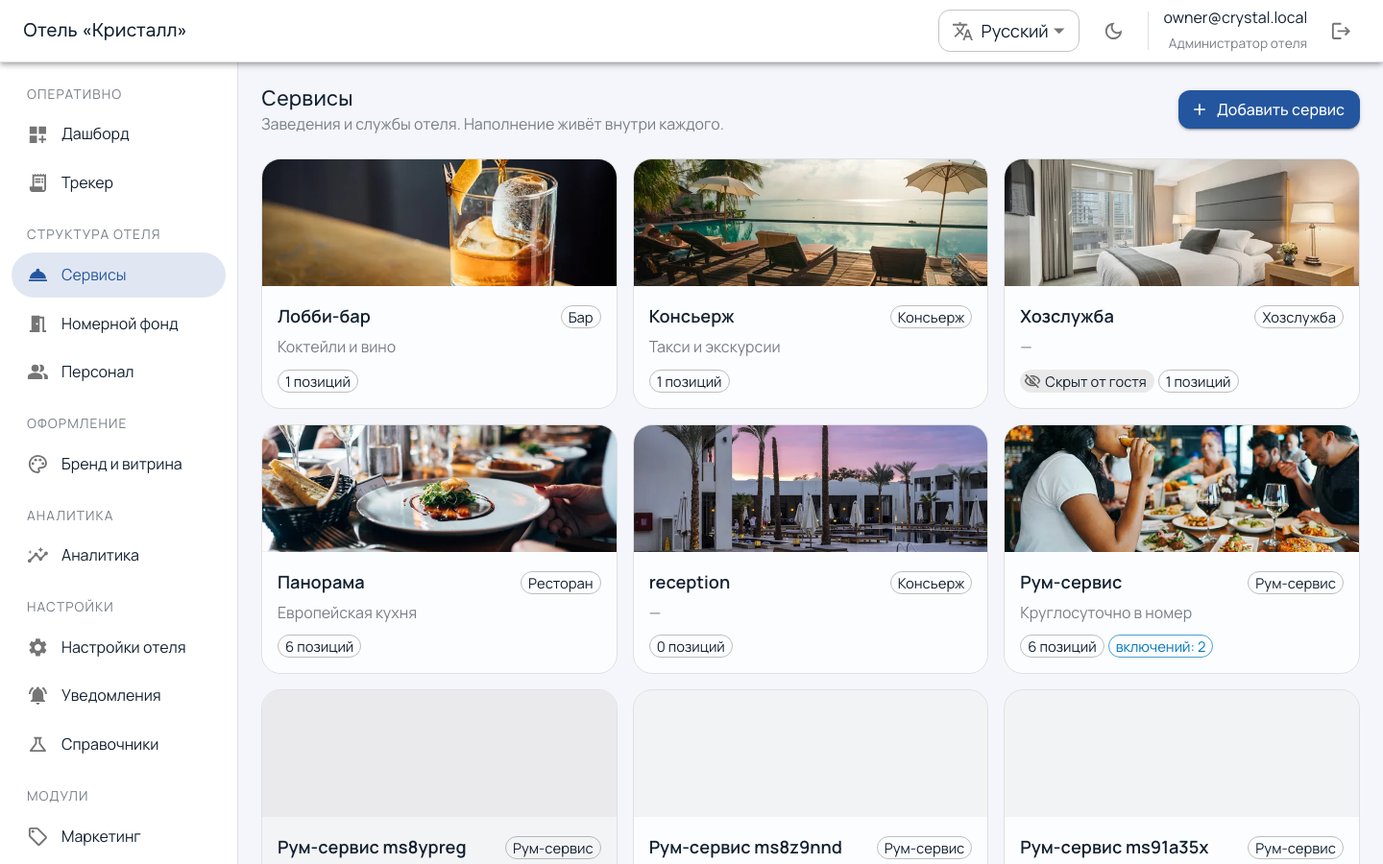
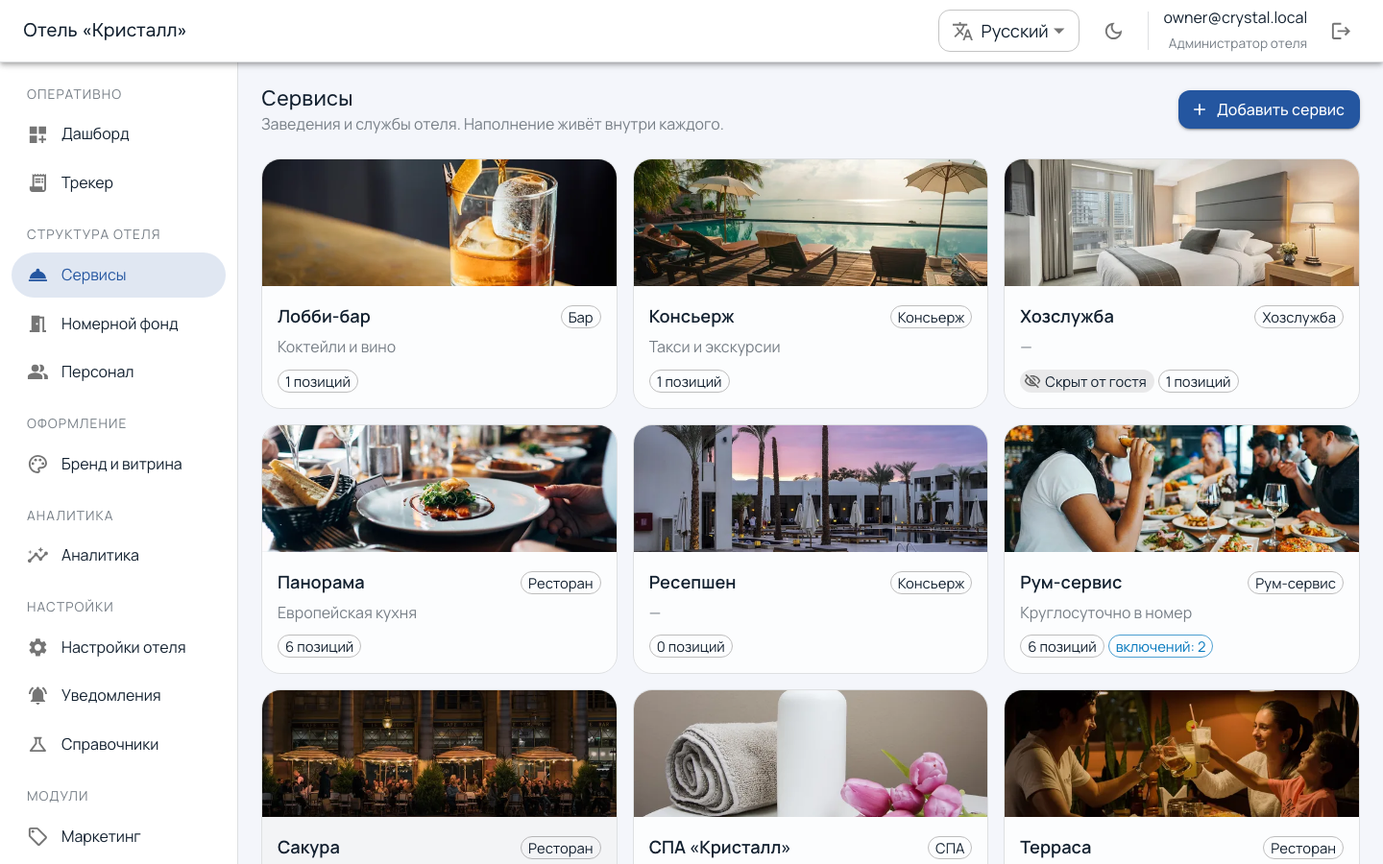
Хвост §2: брошенные заказы, имя ресепшена, архив выключенных сервисов
ЗАВИСШИЕ ЗАКАЗЫ («2515 мин»). Считалось верно — столько заказ и висел: каждый
прогон E2E оставляет заказы в рабочих статусах, и на стенде их накопилось 110
старше суток. На доске это читается как отказ системы, а счётчики колонок
растут от прогона к прогону.

Уборка стенда теперь их закрывает, но НЕ удаляет: заказ — это выручка и чек.
Перевод в терминальный «отменён» СВОЕГО потока (у потоков статусы разные, общий
код поставил бы чужой). Порог — сутки, живой заказ под правило не попадает.

Отдельно защищена БУДУЩАЯ бронь: спа-слот на следующую неделю заводят заранее,
его `created_at` стар по определению, и правило «старше суток — закрыть»
уничтожило бы настоящую запись гостя. Признак не возраст, а прошло ли
назначенное время. Это закреплено тестом.

РЕСЕПШЕН ЛАТИНИЦЕЙ. У точки исполнения перевод был, у её сервиса — нет, и CMS
показывала сервис по КОДУ. Имя дано на всех четырёх языках; заодно починка уже
заведённых отелей — `get_or_create` их бы не тронул.

ВЫКЛЮЧЕННЫЕ В CMS. Выключенный сервис оставался полноправной карточкой в общей
сетке: двадцать «Рум-сервис ms…» поверх шести настоящих, и оператор искал свой
ресторан глазами среди мусора. Рабочее и архивное разведены, архив свёрнут.
Удалять их нельзя — на них висят заказы.

Changed region(s): [[0.1875, 0.7778, 1.0, 0.9956], [0.4688, 0.6533, 0.5312, 0.6844]]

diff --git a/frontend/src/cms/services/ServicesPage.tsx b/frontend/src/cms/services/ServicesPage.tsx
@@ -16,7 +16,9 @@ import MenuItem from '@mui/material/MenuItem';
 import Stack from '@mui/material/Stack';
 import TextField from '@mui/material/TextField';
 import Typography from '@mui/material/Typography';
+import Collapse from '@mui/material/Collapse';
 import AddIcon from '@mui/icons-material/Add';
+import ExpandMoreIcon from '@mui/icons-material/ExpandMore';
 import VisibilityOffOutlinedIcon from '@mui/icons-material/VisibilityOffOutlined';
 import { useTranslation } from 'react-i18next';
 
@@ -35,8 +37,13 @@ export function ServicesPage() {
   const navigate = useNavigate();
   const queryClient = useQueryClient();
   const [creating, setCreating] = useState(false);
+  const [archiveOpen, setArchiveOpen] = useState(false);
 
   const services = useQuery({ queryKey: ['cms', 'services'], queryFn: fetchServices });
+
+  const all = services.data ?? [];
+  const active = all.filter((service) => service.is_active);
+  const archived = all.filter((service) => !service.is_active);
 
   const label = (value: Record<string, string> | undefined, fallback: string) =>
     value?.[i18n.resolvedLanguage ?? 'ru'] ?? value?.ru ?? value?.en ?? fallback;
@@ -71,22 +78,49 @@ export function ServicesPage() {
 
       {services.error ? <Alert severity="error">{String(services.error)}</Alert> : null}
 
-      <Box
-        sx={{
-          display: 'grid',
-          gap: 2,
-          gridTemplateColumns: { xs: '1fr', sm: '1fr 1fr', lg: '1fr 1fr 1fr' },
-        }}
-      >
-        {(services.data ?? []).map((service) => (
-          <ServiceCard
-            key={service.id}
-            service={service}
-            label={label}
-            onOpen={() => navigate(`/cms/services/${service.id}`)}
-          />
-        ))}
-      </Box>
+      {/*
+        Рабочее и архивное — врозь.
+
+        Выключенный сервис остаётся полноправной карточкой в общей сетке, и на
+        стенде это давало двадцать «Рум-сервис ms…» поверх шести настоящих:
+        оператор искал свой ресторан глазами среди мусора. Выключенные никуда
+        не деваются (их нельзя удалить — на них висят заказы), но лежат
+        свёрнутыми и не мешают работе.
+      */}
+      <ServiceGrid
+        services={active}
+        label={label}
+        onOpen={(id) => navigate(`/cms/services/${id}`)}
+      />
+
+      {archived.length ? (
+        <Box sx={{ mt: 3 }}>
+          <Button
+            onClick={() => setArchiveOpen((open) => !open)}
+            data-testid="services-archive-toggle"
+            startIcon={
+              <ExpandMoreIcon
+                sx={{
+                  transform: archiveOpen ? 'rotate(180deg)' : 'none',
+                  transition: 'transform .2s',
+                }}
+              />
+            }
+            sx={{ color: 'text.secondary' }}
+          >
+            {t('services.archive', { count: archived.length })}
+          </Button>
+          <Collapse in={archiveOpen} unmountOnExit>
+            <Box sx={{ mt: 2 }} data-testid="services-archive">
+              <ServiceGrid
+                services={archived}
+                label={label}
+                onOpen={(id) => navigate(`/cms/services/${id}`)}
+              />
+            </Box>
+          </Collapse>
+        </Box>
+      ) : null}
 
       <CreateServiceDialog
         open={creating}
@@ -266,5 +300,36 @@ function CreateServiceDialog({
         </Button>
       </DialogActions>
     </Dialog>
+  );
+}
+
+/** Сетка карточек — одна и та же для рабочих и для архивных. */
+function ServiceGrid({
+  services,
+  label,
+  onOpen,
+}: {
+  services: CmsService[];
+  /** Тот же резолвер перевода, что у страницы: значение по языку + запасное. */
+  label: (value: Record<string, string> | undefined, fallback: string) => string;
+  onOpen: (id: string) => void;
+}) {
+  return (
+    <Box
+      sx={{
+        display: 'grid',
+        gap: 2,
+        gridTemplateColumns: { xs: '1fr', sm: '1fr 1fr', lg: '1fr 1fr 1fr' },
+      }}
+    >
+      {services.map((service) => (
+        <ServiceCard
+          key={service.id}
+          service={service}
+          label={label}
+          onOpen={() => onOpen(service.id)}
+        />
+      ))}
+    </Box>
   );
 }

diff --git a/backend/apps/hotels/management/commands/clean_test_residue.py b/backend/apps/hotels/management/commands/clean_test_residue.py
@@ -15,6 +15,17 @@
 ЧТО НЕ УДАЛЯЕТСЯ НИКОГДА: позиция, на которую ссылается строка заказа. Такая
 позиция — часть истории: удалив её, мы порвём чек, который отель уже отдал
 гостю. Её выключают, и она перестаёт быть видимой гостю, оставаясь в истории.
+
+ЗАВИСШИЕ ЗАКАЗЫ. Каждый прогон E2E оставляет заказы в рабочих статусах: их
+никто не доводит до конца, и они копятся. На доске это выглядит как отказ
+системы — «2515 мин» красным на каждой карточке, — а счётчики колонок растут от
+прогона к прогону. Такие заказы НЕ УДАЛЯЮТСЯ: заказ это история и выручка.
+Они переводятся в терминальный «отменён» своего потока — с доски уходят,
+в истории и аналитике остаются целиком.
+
+Порог намеренно крупный (STALE_HOURS): заказ, открытый дольше суток, — это уже
+не «в работе», а брошенный. Живой заказ, которым занимаются прямо сейчас, под
+правило не попадает, и это главное, что здесь нельзя сломать.
 """
 
 from __future__ import annotations
@@ -31,6 +42,10 @@ from apps.hotels.models import Hotel
 TEST_SUFFIX = re.compile(r"-ms[0-9a-z]{6,}$")
 CHAT_BODY = re.compile(r"^(вопрос|ответ|ещё)-ms[0-9a-z]{6,}$")
 
+# Через сколько часов открытый заказ считается брошенным. Сутки с запасом:
+# смена длится меньше, и ни один живой заказ столько в работе не висит.
+STALE_HOURS = 24
+
 
 class Command(BaseCommand):
     help = "Показать (и по флагу убрать) остатки автотестов в отеле"
@@ -42,11 +57,21 @@ class Command(BaseCommand):
             action="store_true",
             help="Действительно убрать. Без флага — только показать, что нашлось",
         )
+        parser.add_argument(
+            "--stale-hours",
+            type=int,
+            default=STALE_HOURS,
+            help=f"С какого возраста открытый заказ считать брошенным (по умолчанию {STALE_HOURS})",
+        )
 
     def handle(self, *args, **options):
+        from datetime import timedelta
+
+        from django.utils import timezone
+
         from apps.catalog.models import Category, Item
         from apps.chat.models import ChatMessage
-        from apps.orders.models import OrderItem
+        from apps.orders.models import Order, OrderItem, StatusDefinition
 
         hotel = Hotel.objects.filter(subdomain=options["subdomain"]).first()
         if hotel is None:
@@ -59,6 +84,22 @@ class Command(BaseCommand):
             categories = [c for c in Category.objects.all() if TEST_SUFFIX.search(c.code)]
             messages = [m for m in ChatMessage.objects.all() if CHAT_BODY.match((m.body or "").strip())]
 
+            # Заказы, брошенные прогонами: открыты дольше порога. Опознаём по
+            # возрасту и незавершённости, а не по имени — у заказа нет кода, за
+            # который можно зацепиться, и придумывать его ради уборки нельзя.
+            now = timezone.now()
+            cutoff = now - timedelta(hours=options["stale_hours"])
+            stale = [
+                order
+                for order in Order.objects.select_related("status").filter(created_at__lt=cutoff)
+                if not order.status.is_terminal
+                # Бронь на БУДУЩЕЕ брошенной не является, даже если оформлена
+                # давно: спа-слот на следующую неделю заводят заранее, и его
+                # `created_at` стар по определению. Возраст заказа тут не
+                # признак — признак в том, прошло ли назначенное время.
+                and not (order.requested_time and order.requested_time > now)
+            ]
+
             # Позиции делим по одному признаку: есть ли на них заказ.
             keep, drop = [], []
             for item in items:
@@ -66,7 +107,8 @@ class Command(BaseCommand):
 
             self.stdout.write(
                 f"Найдено: позиций {len(items)} (удалить {len(drop)}, выключить {len(keep)} — "
-                f"на них есть заказы), разделов {len(categories)}, сообщений чата {len(messages)}"
+                f"на них есть заказы), разделов {len(categories)}, сообщений чата {len(messages)}, "
+                f"брошенных заказов {len(stale)} (открыты дольше {options['stale_hours']} ч)"
             )
             for item in keep:
                 self.stdout.write(f"  выключить: {item.code}")
@@ -91,10 +133,31 @@ class Command(BaseCommand):
 
             deleted_msgs = ChatMessage.objects.filter(pk__in=[m.pk for m in messages]).delete()
 
+            # Заказ НЕ удаляем: это история и выручка. Переводим в терминальный
+            # «отменён» СВОЕГО потока — статусы у потоков разные, и один общий
+            # код здесь поставил бы заказу чужой статус.
+            cancelled_by_flow: dict[str, StatusDefinition] = {}
+            closed = 0
+            for order in stale:
+                flow = order.status.flow
+                terminal = cancelled_by_flow.get(flow)
+                if terminal is None:
+                    terminal = StatusDefinition.objects.filter(
+                        flow=flow, code="cancelled"
+                    ).first()
+                    if terminal is None:
+                        self.stderr.write(f"У потока «{flow}» нет статуса отмены — пропускаю")
+                        continue
+                    cancelled_by_flow[flow] = terminal
+                order.status = terminal
+                order.save(update_fields=["status", "updated_at"])
+                closed += 1
+
         self.stdout.write(
             self.style.SUCCESS(
                 f"Убрано: позиций удалено {deleted_items}, выключено {hidden}; "
                 f"разделов удалено {deleted_cats}, выключено {hidden_cats}; "
-                f"сообщений удалено {deleted_msgs}"
+                f"сообщений удалено {deleted_msgs}; "
+                f"брошенных заказов закрыто {closed}"
             )
         )

diff --git a/backend/tests/test_stand_cleanup.py b/backend/tests/test_stand_cleanup.py
@@ -1,0 +1,104 @@
+"""
+Уборка стенда: брошенные заказы.
+
+Каждый прогон E2E оставляет заказы в рабочих статусах — их никто не доводит до
+конца. На доске это выглядит как отказ системы («2515 мин» красным на каждой
+карточке), а счётчики колонок растут от прогона к прогону.
+
+Здесь закреплено ровно то, что можно и чего нельзя делать с такими заказами.
+Граница проходит не по «тестовости» (у заказа нет кода, за который зацепиться),
+а по двум признакам: заказ незавершён И его время прошло.
+"""
+
+from __future__ import annotations
+
+from datetime import timedelta
+
+import pytest
+from django.core.management import call_command
+from django.utils import timezone
+
+from apps.core.context import tenant_context
+from apps.orders.models import Order, StatusDefinition
+
+pytestmark = pytest.mark.django_db
+
+
+def _make_order(hotel, *, age_hours: float, status_code: str, requested_time=None) -> Order:
+    """Заказ заданного возраста. `created_at` — auto_now_add, поэтому проставляем после."""
+    from apps.hotels.models import ExecutionPoint, Room
+
+    with tenant_context(hotel):
+        status = StatusDefinition.objects.filter(flow="board", code=status_code).first()
+        assert status is not None, f"нет статуса {status_code}"
+        order = Order.objects.create(
+            number=Order.objects.count() + 9000,
+            room=Room.objects.first(),
+            execution_point=ExecutionPoint.objects.first(),
+            status=status,
+            total=1000,
+            requested_time=requested_time,
+        )
+        Order.objects.filter(pk=order.pk).update(
+            created_at=timezone.now() - timedelta(hours=age_hours)
+        )
+        return Order.objects.get(pk=order.pk)
+
+
+def test_stale_open_order_is_closed_not_deleted(crystal):
+    """Брошенный заказ уходит с доски, но остаётся в истории целиком."""
+    order = _make_order(crystal, age_hours=48, status_code="new")
+    with tenant_context(crystal):
+        before = Order.objects.count()
+
+    call_command("clean_test_residue", "--subdomain", "crystal", "--apply", verbosity=0)
+
+    with tenant_context(crystal):
+        refreshed = Order.objects.get(pk=order.pk)
+        assert refreshed.status.is_terminal, "заказ обязан уйти с активной доски"
+        assert refreshed.status.code == "cancelled"
+        # Главное: ни одна строка не пропала. Заказ — это выручка и чек.
+        assert Order.objects.count() == before
+
+
+def test_fresh_open_order_is_left_alone(crystal):
+    """Живой заказ трогать нельзя — им занимаются прямо сейчас."""
+    order = _make_order(crystal, age_hours=1, status_code="new")
+
+    call_command("clean_test_residue", "--subdomain", "crystal", "--apply", verbosity=0)
+
+    with tenant_context(crystal):
+        assert not Order.objects.get(pk=order.pk).status.is_terminal
+
+
+def test_future_booking_survives_however_old(crystal):
+    """
+    Бронь на БУДУЩЕЕ брошенной не является, даже если оформлена давно.
+
+    Спа-слот на следующую неделю заводят заранее: его `created_at` стар по
+    определению, и правило «старше суток — закрыть» уничтожило бы настоящую
+    запись гостя. Признак не возраст заказа, а прошло ли назначенное время.
+    """
+    order = _make_order(
+        crystal,
+        age_hours=72,
+        status_code="new",
+        requested_time=timezone.now() + timedelta(days=5),
+    )
+
+    call_command("clean_test_residue", "--subdomain", "crystal", "--apply", verbosity=0)
+
+    with tenant_context(crystal):
+        assert not Order.objects.get(pk=order.pk).status.is_terminal, (
+            "будущая бронь не должна закрываться по возрасту"
+        )
+
+
+def test_dry_run_changes_nothing(crystal):
+    """Без `--apply` команда обязана только рассказывать."""
+    order = _make_order(crystal, age_hours=48, status_code="new")
+
+    call_command("clean_test_residue", "--subdomain", "crystal", verbosity=0)
+
+    with tenant_context(crystal):
+        assert not Order.objects.get(pk=order.pk).status.is_terminal

diff --git a/backend/apps/hotels/provisioning.py b/backend/apps/hotels/provisioning.py
@@ -164,20 +164,36 @@ def provision_hotel(
             code="reception",
             defaults={
                 "kind": ExecutionPoint.Kind.RECEPTION,
-                "title": {"ru": "Ресепшен", "en": "Reception"},
+                "title": {"ru": "Ресепшен", "en": "Reception", "ar": "الاستقبال", "zh": "前台"},
                 "sla_minutes": 15,
             },
         )
         # Сервис-контейнер исполнителя (1:1). Каркасный ресепшен без категорий
         # на витрине не появляется, но инвариант «у каждого исполнителя есть
         # сервис» держим с самого создания отеля.
-        Service.objects.get_or_create(
+        # Имя даём на всех языках отеля сразу. Без него CMS показывала сервис
+        # по КОДУ — латинское «reception» в списке русских названий: у точки
+        # исполнения перевод был, а у её сервиса нет, и подпись бралась откуда
+        # придётся.
+        reception_name = {
+            "ru": "Ресепшен",
+            "en": "Reception",
+            "ar": "الاستقبال",
+            "zh": "前台",
+        }
+        reception_service, created_service = Service.objects.get_or_create(
             execution_point=reception,
             defaults={
                 "code": reception.code,
                 "type": Service.Type.CONCIERGE,
+                "public_name": reception_name,
             },
         )
+        # Починка уже заведённых отелей: на стендах, созданных до этой правки,
+        # сервис ресепшена лежит без имени, и `get_or_create` его не тронет.
+        if not created_service and not reception_service.public_name:
+            reception_service.public_name = reception_name
+            reception_service.save(update_fields=["public_name", "updated_at"])
 
         seed_item_data_dictionaries()
         # Пресеты статусов — часть каркаса отеля, а не демо-контента. До R3 они
